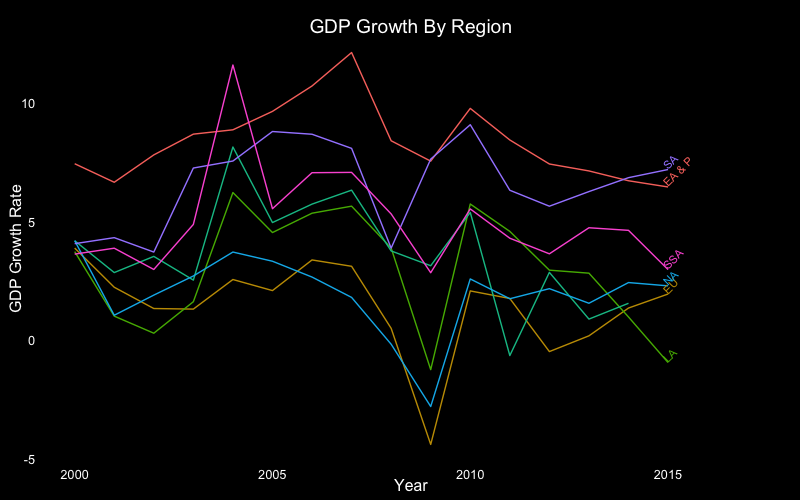
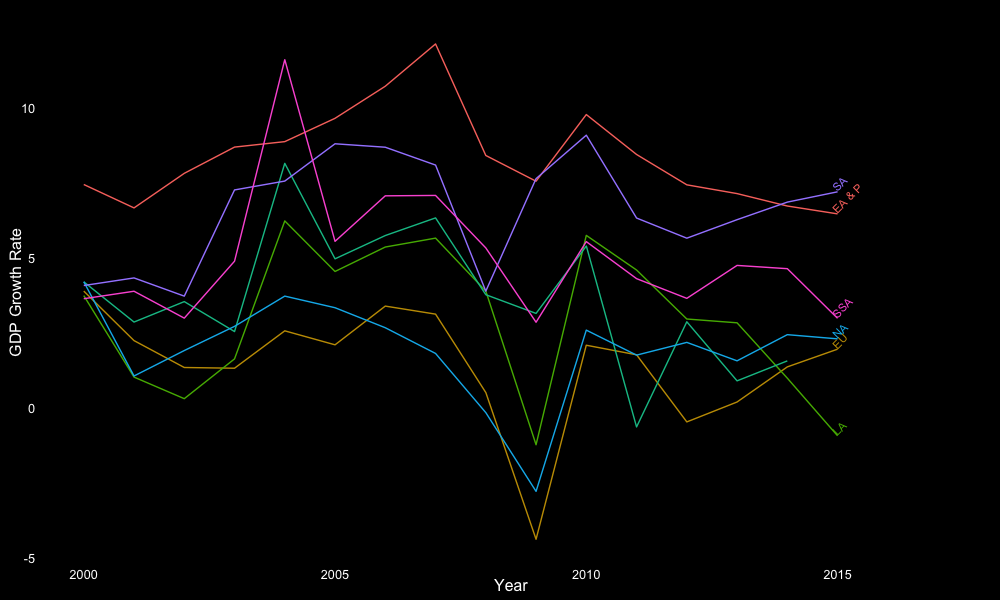
Commit with new graphs

diff --git a/index.html b/index.html
@@ -36,15 +36,14 @@
             <h2>Main Indicators</h2>
               <ul>
                 <li>GDP Growth (Annual %)</li>
-                <li>Gross National Income</li>
-                <li>Purchasing Power Parity</li>
+                <li>GNI Growth (Atlas, Annual %)</li>
               </ul>
           </section>
 
           <section>
             <h3>GDP Growth (Annual %)</h3>
             <p>Refresher: <span class = "fragment highlight-blue">GDP = C + G + I + (X - M)</span></p>
-						<p>GDP Growth Equation: <span class = "fragment highlight-red">$\frac{GDP_Q - GDP_{Q-4}}{GDP_{Q-4}}$</span></p>
+						<p>GDP Growth Equation: <span class = "fragment highlight-red">$\frac{GDP_Q - GDP_{Q-4}}{GDP_{Q-4}} \times 100\%$</span></p>
             <ul>
               <li>Annual percentage growth rate of GDP at market prices based on constant local currency.</li>
               <li>Aggreates based on constant 2010 U.S. Dollars</li>
@@ -59,12 +58,25 @@
 					</section>
 
           <section>
-            Gross National Income
+          	<h3>GNI Growth (Atlas, Annual %)</h3>
+						<p>Referesher: <span class = "fragment highlight-blue">$GNI = GDP + NI_{abroad} - NI_{non-citizens}$</span></p>
+						<p>GNI Growth Equation: <span class = "fragment highlight-red">$\frac{GNI_Q - GNI_{Q-4}}{GNI_{Q-4}} \times 100\%$</span></p>
+						<ul>
+							<li>Uses a 3-year average of exchange rates to smooth effects of transitory exchange rate fluctuations, adjusted for the difference between the rate of inflation in the country and that in a number of developed countries</li>
+						</ul>
+
           </section>
 
-          <section>
-            Purchasing Power Parity
+          <section data-background = #000000>
+						<h4>GNI Growth By Region From 2000 to 2015</h4>
+						<img class = "plain" src = "GNI Growth.png">
           </section>
+
+					<section data-background = #000000>
+						<h4>Comparison</h4>
+						<img class = "plain" src = "Left.png">
+						<img class = "plain" src = "Right.png">
+					</section>
 
         </section>
 
